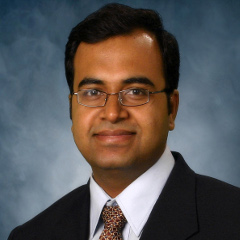
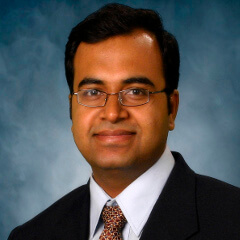
Compressed images and added Dr. Borun Chodhary

diff --git a/lms/templates/static_templates/team.html b/lms/templates/static_templates/team.html
@@ -61,6 +61,22 @@ Professor Agarwal is a leading faculty and researcher in the area of nano-techno
 <br>
 
 <li>
+<div><img alt="Dr. BD Chowdhury" src="${static.url('images/edx-theme/bdchowdhury-faculty.jpg')}"></div>
+<div class="desc">
+<p>
+<b>Dr. BD Chowdhury, PhD<br>
+Post-Doctoral Research TIFR India, University of Amsterdam and Arizona State University<br>
+PhD Ohio State University<br>
+MSc IIT Kanpur<br><br>
+</b>
+Dr. Borun D. Chowdhury is a theoretical physicist at CERN Switzerland. Dr. Chowdhury has several years of scientific research experience in string theory and quantum gravity at some of the leading global research institutions such as University of Amsterdam, Netherland, Arizona State University, USA, and Tata Institute of Fundamental Research, India. Dr. Chowdhury went to IIT Kanpur for his undergraduate studies and has a PhD in Physics from Ohio State University, USA. Dr. Chowdhury is also interested in statistics and machine learning.
+</p>
+</div>
+</li>
+<br>
+<br>
+
+<li>
 <div><img alt="Professor Delmar Larsen" src="${static.url('images/edx-theme/delmarlarsen-faculty.jpg')}"></div>
 <div class="desc">
 <p>
@@ -70,7 +86,7 @@ BS University of Washington<br><br>
 </b>
 Professor Larsen’s research focuses on light activated biological functions. The questions his group is working to answer require a multi-disciplinary approach that incorporates tools from molecular biology, physical chemistry, and computational sciences.
 <br>
-Dr. Larsen is founder of ChemWiki <a href="http://chemwiki.ucdavis.edu">http://chemwiki.ucdavis.edu</a> a hyperlibrary that is revolutionizing the way student’s access and learn from textbooks.  
+Dr. Larsen is founder of ChemWiki <a href="http://chemwiki.ucdavis.edu">http://chemwiki.ucdavis.edu</a> a hyperlibrary that is revolutionizing the way student’s access and learn from textbooks.
 <br><a href="http://larsenlab.ucdavis.edu">http://larsenlab.ucdavis.edu</a>
 </p>
 </div>

diff --git a/lms/static/sass/base/_variables.scss b/lms/static/sass/base/_variables.scss
@@ -370,7 +370,7 @@ $content-wrapper-bg: $white;
 $course-bg-color: #f2f2f2;
 $course-bg-image: url(../images/bg-texture.png);
 $account-content-wrapper-bg: shade($body-bg, 2%);
-$course-profile-bg: rgb(245,245,245);
+$course-profile-bg: rgb(10,74,103);
 $course-header-bg: rgba(255,255,255, 0.93);
 
 // MISC: course background texture
@@ -414,8 +414,8 @@ $footer_margin: ($baseline/4) 0 ($baseline*1.5) 0;
 // ====================
 
 // VIEWS: homepage
-$homepage__header--gradient__color--alpha: lighten($gray, 15%);
-$homepage__header--gradient__color--bravo: saturate($gray, 30%);
+$homepage__header--gradient__color--alpha: rgb(10,74,103);
+$homepage__header--gradient__color--bravo: rgb(10,74,103);
 $homepage__header--background: lighten($gray, 15%);
 
 // VIEWS: homepage and courses
